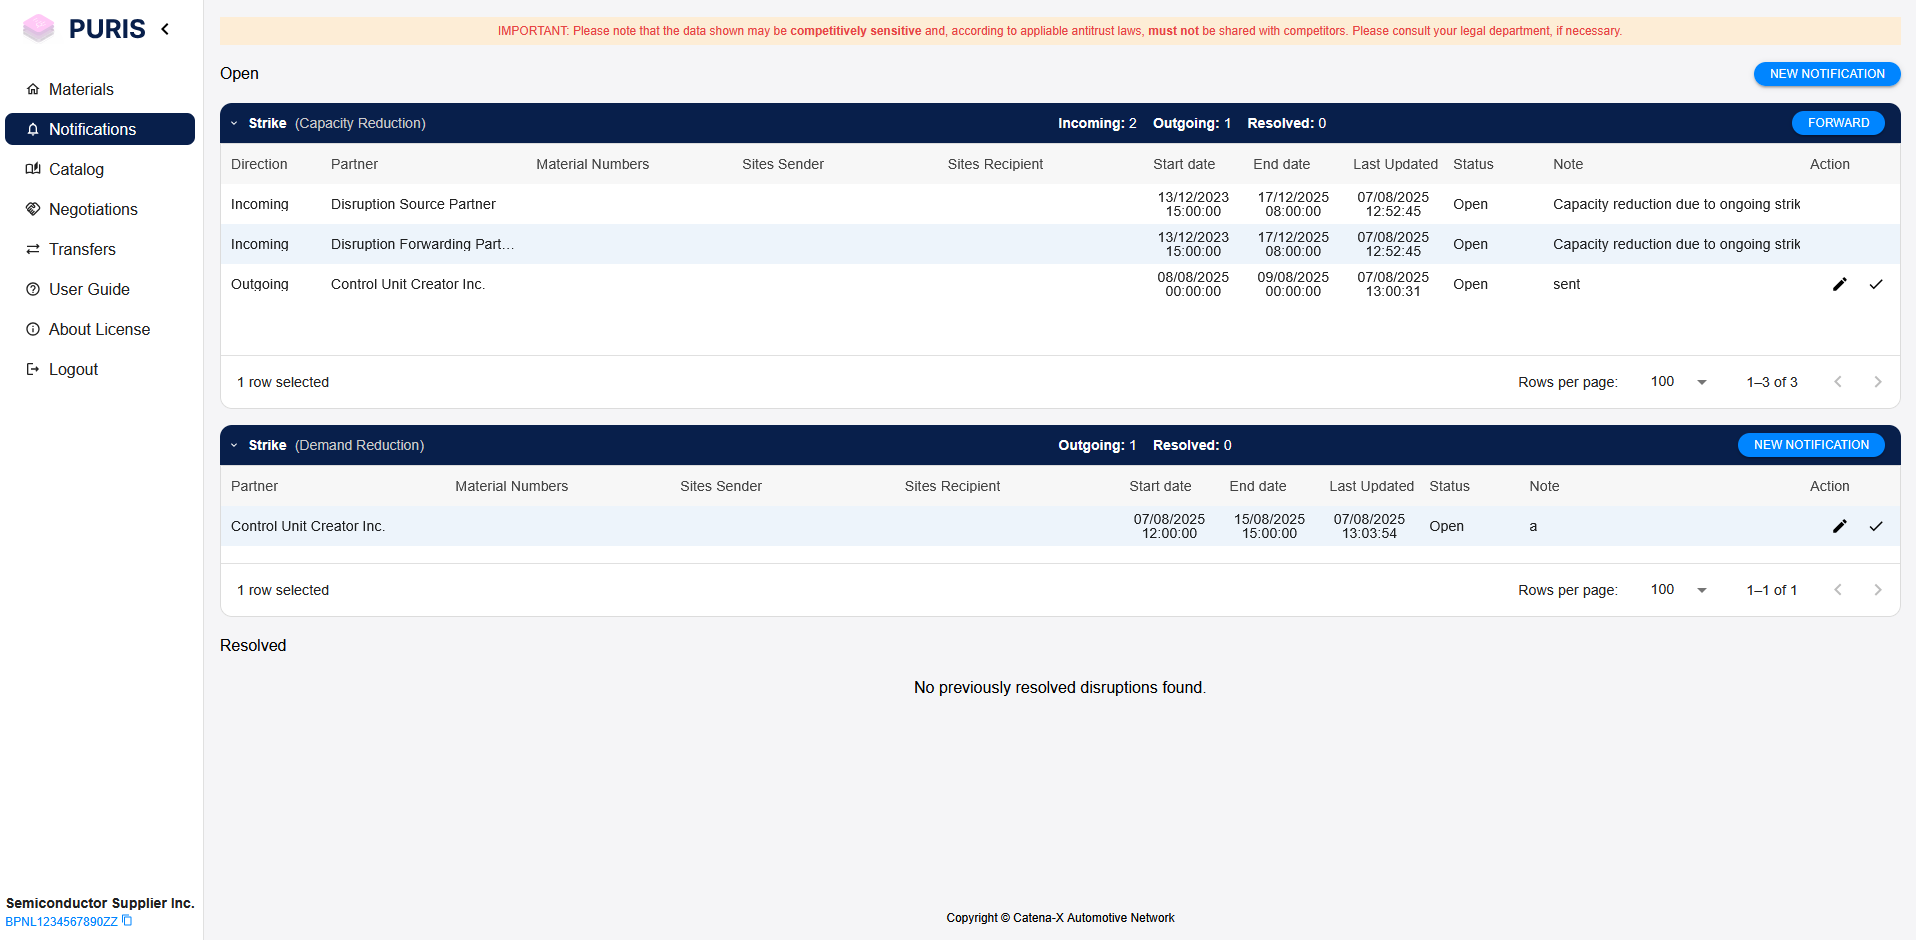
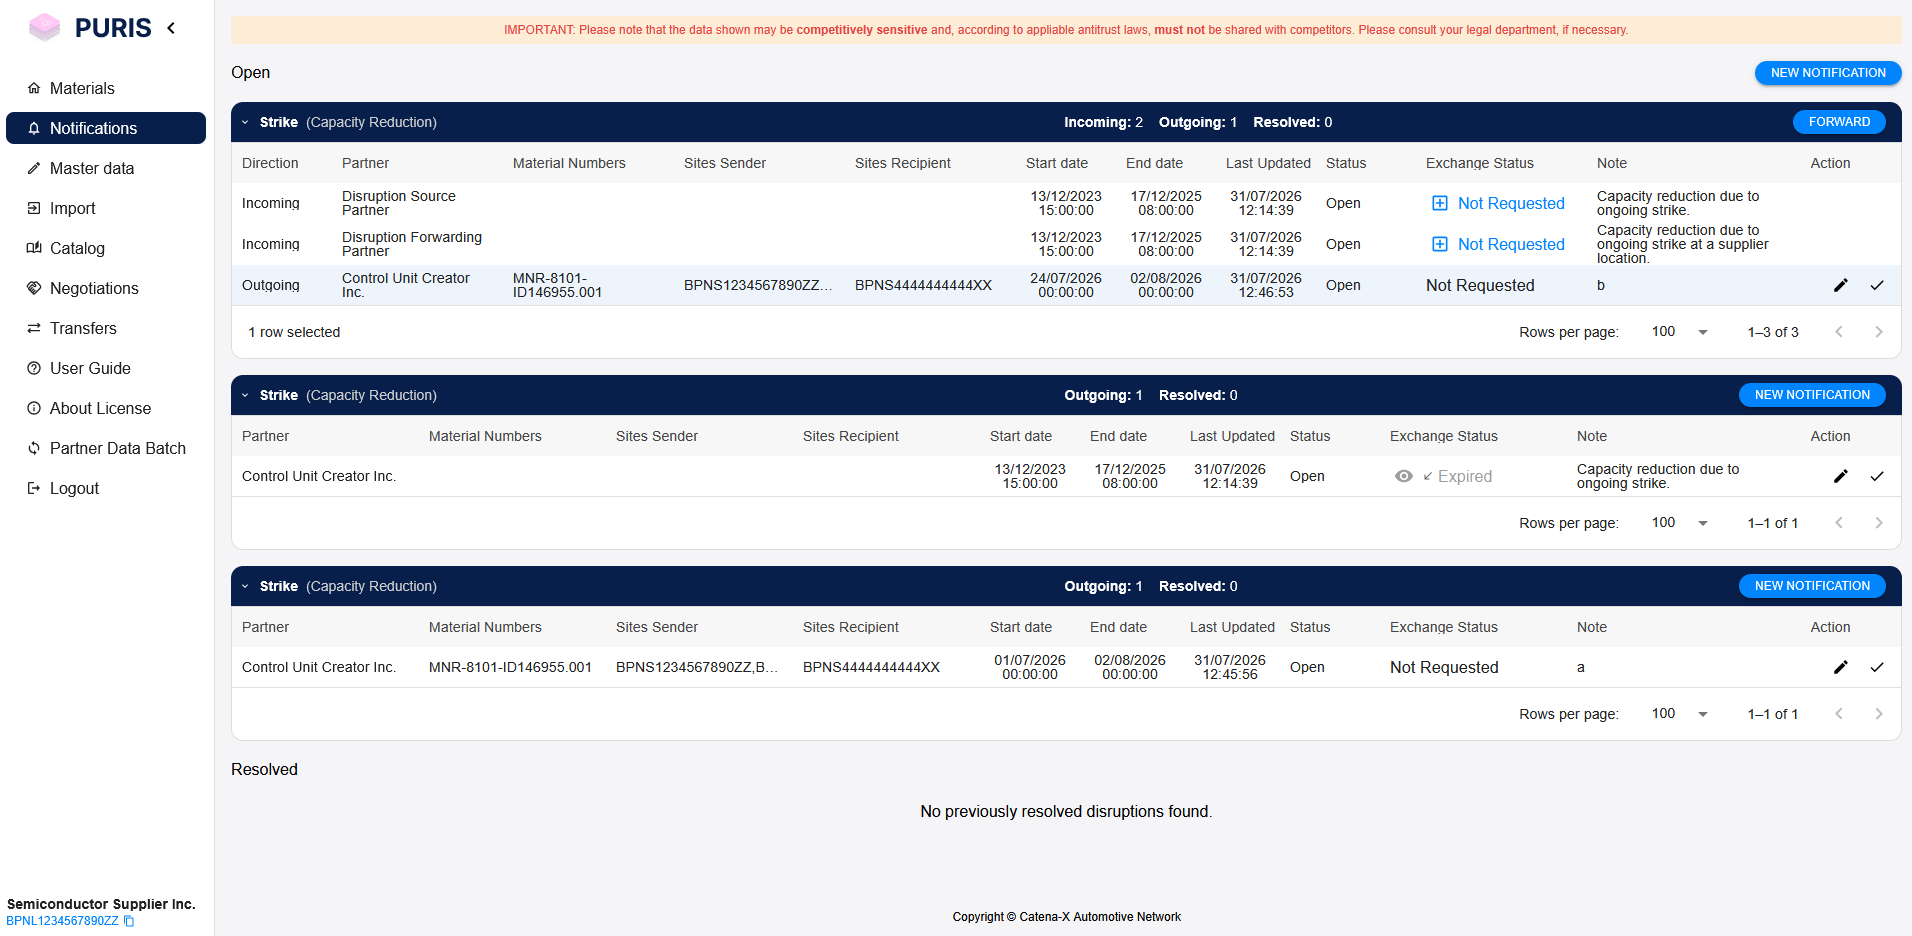
chore: update documentation with new feature information

diff --git a/docs/user/User_Guide.md b/docs/user/User_Guide.md
@@ -284,6 +284,7 @@ A user may use the page to send notifications to partners or read received notif
 The notifications are grouped into collapsible sections based on their source disruption. Each collapsible displays the cause as well as effect of the disruption and can be expanded to display the list of notifications in table form.
 The table displays `Outgoing` if the message was sent to a partner and `Incoming` if it was received from a partner.
 If the notification has been resolved, the row will be grayed out and the text column will additionally display the Resolution Message.
+If there is a data exchange request that needs approval the table header with indicate the number of Requests and appropriate arrow depending on if the data exchange request is `Incoming` (Left arrow) or `Outgoing` (Right arrow).
 
 ### Notification View
 
@@ -341,6 +342,46 @@ The following fields are pre-selected and read only:
 - Status (this field is automatically pre-selected with the `Open` option)
 
 The Partner field only provides options for partners that aren't linked to any of the related or any of the existing outgoing notifications. This creates another entry in the existing table.
+
+### Data exchange
+
+Each notification has the status of the potential data exchange in the table under the column Exchange Status.
+Possible status options are the following:
+  - `Terminated` (if the notification has been resolved)
+  - `Expired` (The data exchange request End Time and Date has passed)
+  - `Request Pending` (the outgoing notification doesn't have a data exchange request yet)
+  - `Not requested` (the incoming notification doesn't have a data exchange request yet)
+  - `-` (Requesting data exchange is currently not supported for the specified effect of the notification.)
+  - `Approval Pending` (the data exchange request has been created and is waiting to be approved)
+  - `Approved` (a data exchange request has been approved)
+
+A customer may create a data exchange request for incoming notifications who's effect is 'Capacity reduction' or 'Capacity increase'.
+
+### Data exchange Detail Modal
+
+![Detailed data exchange request after clicking the entry](img/data_exchange_detail.png)
+
+If a data exchange request has been created the user can view the relevant information when clicking on the status of the request. The same view is displayed when a Supplier wants to Approve a request. When triggering the button "Not requested", a modal dialog is opened allowing a user to compose the data exchange request. 
+
+### Send Data Exchange Request
+
+![Send data exchange request modal](img/data_exchange_send.png)
+
+After filling the mandatory data (see `*`), the user can send the data exchange request to the relevant supplier for approval:
+
+- Criticality (either `Low` or `Medium` or `High`)
+- Desired Start Time and Date
+- Desired End Time and Date
+- Message
+
+### Approve Data Exchange Request Modal
+
+![Data Exchange Approval Modal](img/data_exchange_approval.png)
+
+If there is an incoming data exchange request the user can approve it by clicking `Approval Pending` in the status column. This will open the same modal showing all the relevant information. Upon clicking "APPROVE AND CLOSE" the user is prompted with a Dialog to finalize the approval.
+Once approved the status of the data exchange is changed to `Approved`. 
+
+![Data Exchange Approval Dialog](img/data_exchange_approval_dialog.png)
 
 ## Master Data Maintenance
 

diff --git a/docs/architecture/06_runtime_view.md b/docs/architecture/06_runtime_view.md
@@ -197,6 +197,20 @@ End-to-end behavior is covered by unit tests (mappers, DTO constraints) and Brun
 3. submodel asset negotiation + transfer + `$value` pull for anonymized data, performed through the **provider's
    own EDC** to confirm access succeeds, and (where covered) through a partner's EDC to confirm it is rejected
 
+## Scenario: Data Exchange
+This features allows to recursively ask partners and their partners for permission to exchange anonymized data via Data Exchange Request and Data Exchange Approval. The base for each Data Exchange Request is an ongoing disruption represented by an incoming Supply Chain Disruption Notification. in response to this Notification a Data Exchange Request is sent to the partner. The partner can choose to accept or decline this request. Each partner responds with a Data Exchange Approval, which contains whether or not they approve or decline.
+
+### Validation
+
+Currently Data Exchange Request creation is suppored for customers and Data Exchange Approval is supported for suppliers.
+End-to-end behavior is covered by unit tests (mappers, DTO constraints) and Bruno integration tests that execute:
+
+1. Creation of a Data Exchange Request (uses existing demand and capacity notification upon which it creates the request)
+2. Data Exchange Request retrieval (as Reported Data Exchange Request)
+3. Creation of a Data Exchange Request (uses existing reported request `reportedRequestUuid` upon which it creates the approval)
+4. Data Exchange Approval retrieval (as Reported Data Exchange Approval `ownRequestUuid`)
+
+
 ## NOTICE
 
 This work is licensed under the [Apache-2.0](https://www.apache.org/licenses/LICENSE-2.0).
